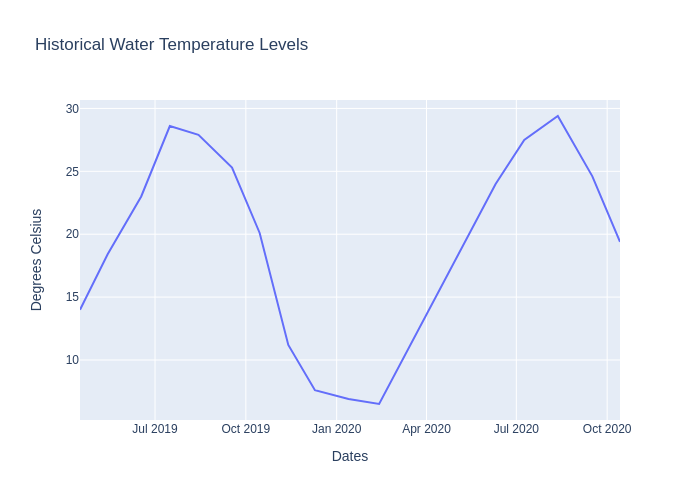
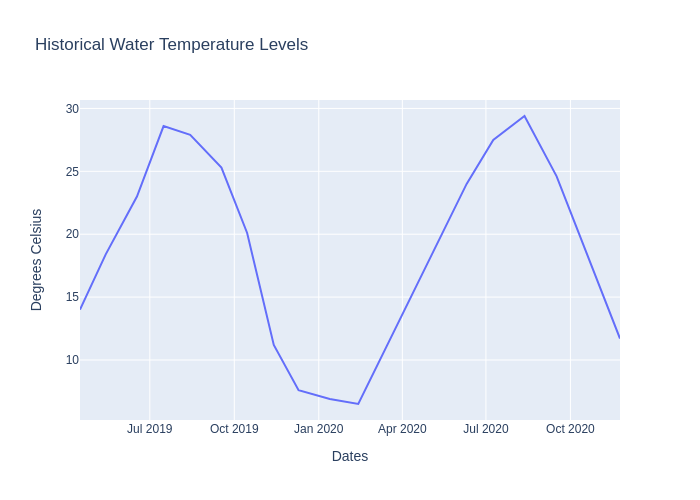
Deploy IzzyFad/NorthropGrumman-HIP to github.com/IzzyFad/NorthropGrumman-HIP.git:gh-pages

diff --git a/docs/index.html b/docs/index.html
@@ -49,11 +49,11 @@
     <div id="levels">
       <div id="left-side">
           <p> CURRENT* LEVELS: </p>
-          <p> <span class="highlight"> PHOSPHATE LEVELS </span>  0.0341 mg/L </p>
-          <p> <span class="highlight"> TURBIDITY </span> 1.3 Meters  </p>
-          <p> <span class="highlight"> OXYGEN LEVELS </span>  6.1 mg/L </p>
-          <p> <span class="highlight"> NITRATE LEVELS </span>  0.545 mg/L  </p>
-          <p> <span class="highlight"> WATER TEMPERATURE </span> 19.4 &deg;C </p>
+          <p> <span class="highlight"> PHOSPHATE LEVELS </span>  0.0254 mg/L </p>
+          <p> <span class="highlight"> TURBIDITY </span> 1.4 Meters  </p>
+          <p> <span class="highlight"> OXYGEN LEVELS </span>  9.5 mg/L </p>
+          <p> <span class="highlight"> NITRATE LEVELS </span>  0.525 mg/L  </p>
+          <p> <span class="highlight"> WATER TEMPERATURE </span> 11.7 &deg;C </p>
         </div>
         <div id="right-side">
           <p> Barriers/Max Levels: </p>

diff --git a/docs/phosphate.html b/docs/phosphate.html
@@ -56,10 +56,10 @@
       <div id="updated-value">
         <h1> <span class="highlight-alt"> &nbsp; MOST RECENT DATA VALUE: &nbsp; </span> </h1>
         <div id="placeholder-value">
-          <h1> 0.0341 mg/L </h1>
+          <h1> 0.0254 mg/L </h1>
         </div>
         <div id="placeholder-value">
-          <h1> 2020-10-14 </h1>
+          <h1> 2020-11-24 </h1>
         </div>
       </div>
     </div>

diff --git a/docs/watertemp.html b/docs/watertemp.html
@@ -53,10 +53,10 @@
       <div id="updated-value">
         <h1> <span class="highlight-alt"> &nbsp; MOST RECENT DATA VALUE: &nbsp; </span> </h1>
         <div id="placeholder-value">
-          <h1> 19.4 &deg;C </h1>
+          <h1> 11.7 &deg;C </h1>
         </div>
         <div id="placeholder-value">
-          <h1> 2020-10-14 </h1>
+          <h1> 2020-11-24 </h1>
         </div>
       </div>
     </div>

diff --git a/docs/nitrate.html b/docs/nitrate.html
@@ -55,10 +55,10 @@
       <div id="updated-value">
         <h1> <span class="highlight-alt"> &nbsp; MOST RECENT DATA VALUE: &nbsp; </span> </h1>
         <div id="placeholder-value">
-          <h1> 0.545 mg/L </h1>
+          <h1> 0.525 mg/L </h1>
         </div>
         <div id="placeholder-value">
-          <h1> 2020-10-14 </h1>
+          <h1> 2020-11-24 </h1>
         </div>
       </div>
     </div>

diff --git a/docs/turbidity.html b/docs/turbidity.html
@@ -56,10 +56,10 @@
       <div id="updated-value">
         <h1> <span class="highlight-alt"> &nbsp; MOST RECENT DATA VALUE: &nbsp; </span> </h1>
         <div id="placeholder-value">
-          <h1> 1.3 Meters </h1>
+          <h1> 1.4 Meters </h1>
         </div>
         <div id="placeholder-value">
-          <h1> 2020-10-14 </h1>
+          <h1> 2020-11-24 </h1>
         </div>
       </div>
     </div>

diff --git a/docs/oxygen.html b/docs/oxygen.html
@@ -56,10 +56,10 @@
       <div id="updated-value">
         <h1> <span class="highlight-alt"> &nbsp; MOST RECENT DATA VALUE: &nbsp; </span> </h1>
         <div id="placeholder-value">
-          <h1> 6.1 mg/L </h1>
+          <h1> 9.5 mg/L </h1>
         </div>
         <div id="placeholder-value">
-          <h1> 2020-10-14 </h1>
+          <h1> 2020-11-24 </h1>
         </div>
       </div>
     </div>
